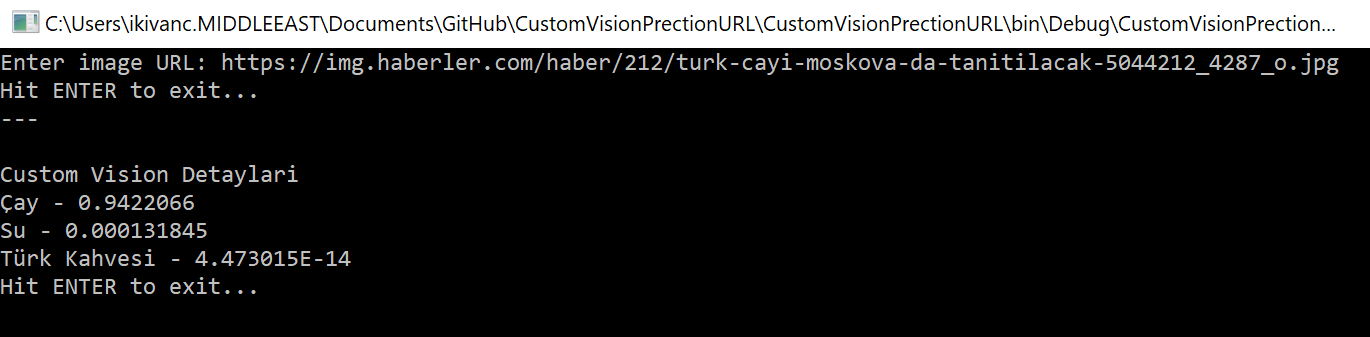
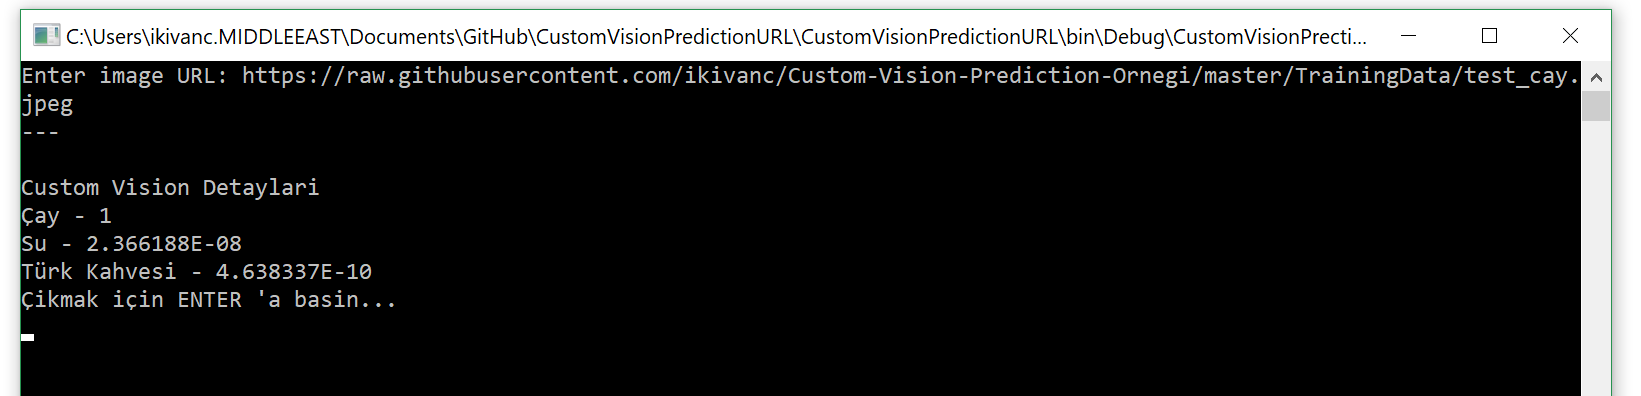
Readme.md edits
Readme.md edits

Changed region(s): [[0.0, 0.0, 1.0, 1.0]]

diff --git a/README.md b/README.md
@@ -4,14 +4,14 @@ Microsoft'un AI alanında tüm geliştiricilere sunmuş olduğu çok fazla ürü
 
 Bu örnek de görüntü işleme konusunda yazılım geliştiricilerin kullanabileceği, özel olarak tanımlatmak isteyeceğiniz nesneleri tanımlayabileceğiniz bir platform.
 
-## LUIS'in çalışma mantığı
+## Custom Vision Services'in çalışma mantığı
 Custom Vision API'ın çalışma mantığı tanınmasını istediğiniz fotoğraflarla sistemi eğiterek, bir tahmin modelinin oluşturulmasını sağlıyor. Daha sonra bu modeli kullanarak test etmek istediğiniz fotoğrafların bu modellere ne kadar yakın olduğunu size dönebiliyor.
 
-Buradaki temel mantık fotoğraflarda benzerlikler üzerinden eğitildiği için tam olarak neyi öğrenmesi gerektiğini sizin verdiğiniz fotoğrafların içeriği ve eklediğiniz ``tag`` belirliyor.
+Buradaki temel mantık fotoğraflarda benzerlikler üzerinden eğitildiği için tam olarak neyi öğrenmesi gerektiğini sizin verdiğiniz fotoğrafların içeriği ve eklediğiniz ``Tag`` belirliyor.
 
 Bir örnek üzerinde inceleyecek olursak Türkiye'ye has çay bardağı, Türk kahvesi ve Su bardaklarının bulunduğu fotoğraflarla sistemi eğiterek, bundan sonra vereceğiniz fotoğrafların içerisinde bu nesneler geçip geçmediğini görebileceksiniz.
 
-## Custom Vision API proje oluşturulması
+## Custom Vision Services projesi oluşturulması
 
 [Microsoft Cognitive Service](http://www.microsoft.com/cognitive) 'in altında yer alan servislerden birisi olan [Custom Vision Services](http://www.customvision.ai) ile Türk kahvesi fincanı, çay ve su bardaklarını görsel olarak ayırt edilebilmesi için bir örnek projeyi oluşturabilmek için aşağıdaki detayları tamamlamamız gerekiyor.
 
@@ -38,7 +38,7 @@ Aşağıdaki kod örneğinde de girdiğiniz bir fotoğraf URL'i aracılığı il
         static async void MakeRequest()
         {
             var client = new HttpClient();
-       
+
             // Request headers
             // Buraya Prediction API Key'inizi girebilirsiniz.
             client.DefaultRequestHeaders.Add("Prediction-key", "YOUR PREDICTION KEY");
@@ -79,13 +79,24 @@ Aşağıdaki kod örneğinde de girdiğiniz bir fotoğraf URL'i aracılığı il
 ...
 ```
 
-
-
 ## Kodun çıktısı
-Girdiğiniz bir örnek fotoğraf linki aracılığı ile sonucu görmek isterseniz de çıktınız aşağıdaki gibi olacaktır.
+
+Girdiğiniz bir örnek fotoğraf linki aracılığı ile sonucu görmek isterseniz de çıktınız aşağıdaki gibi olacaktır. Sonuçlar float sonuçla şekilde geleceği 1'e en yakın olan sonuç oran olarak doğruluğu en yüksek olan sonuç olacaktır.
+
+Örnek olarak daha önce train edilmemiş [https://raw.githubusercontent.com/ikivanc/Custom-Vision-Prediction-Ornegi/master/TrainingData/test_cay.jpeg](https://raw.githubusercontent.com/ikivanc/Custom-Vision-Prediction-Ornegi/master/TrainingData/test_cay.jpeg) linkini kullanabilirsiniz.
 
 ![](screenshots/customvision_result.png)
 
-Bu örnekte de gördüğümüz gibi, çok temel bir şekilde görüntü işleme aracılığı ile tanıtmak isteyeceğimiz nesneleri Custom Vision Services'i kullanarak tanımlayabiliyorsunuz. 
+Bu örnekte de gördüğümüz gibi, çok temel bir şekilde görüntü işleme aracılığı ile tanıtmak isteyeceğimiz nesneleri Custom Vision Services'i kullanarak tanımlayabiliyorsunuz. Bu örnekte olduğu gibi nesneleri tanımlayabilirsiniz.
+
+Sizler de kurumlarınız için gerekli olan çeşitli entegrasyonları da farklı senaryolarda kullanabilirsiniz.
+
+![](screenshots/customvision_output.png)
+
+* Araç marka-model tanıma senaryolarında
+* Uyarı/Logo tanımlama senaryolarında
+* Futbol takımlarımlarının formalarının tanımlanması
+* Ürün kategorilerinin belirlenmesi
+* Döküman kalıbından dökümanın türünün belirlenmesine kadar pek çok konu için bu servisler kullanılabilir.
 
 iyi çalışmalar.
